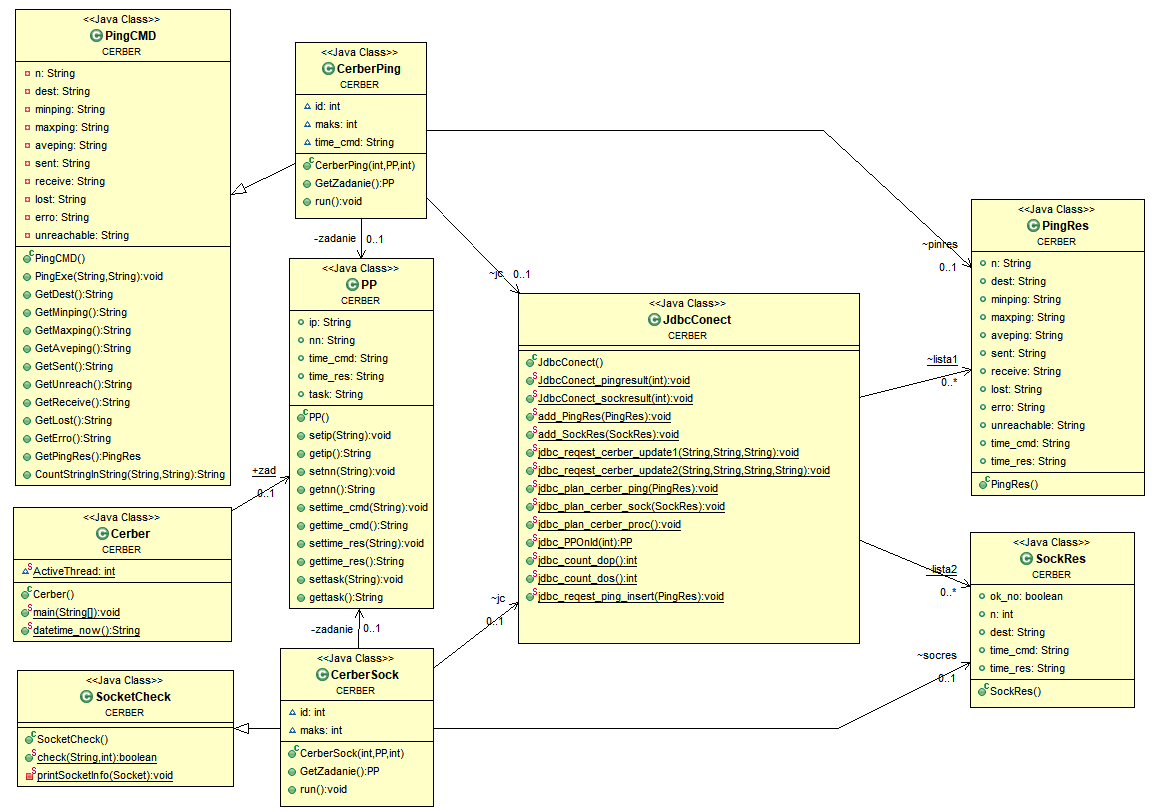
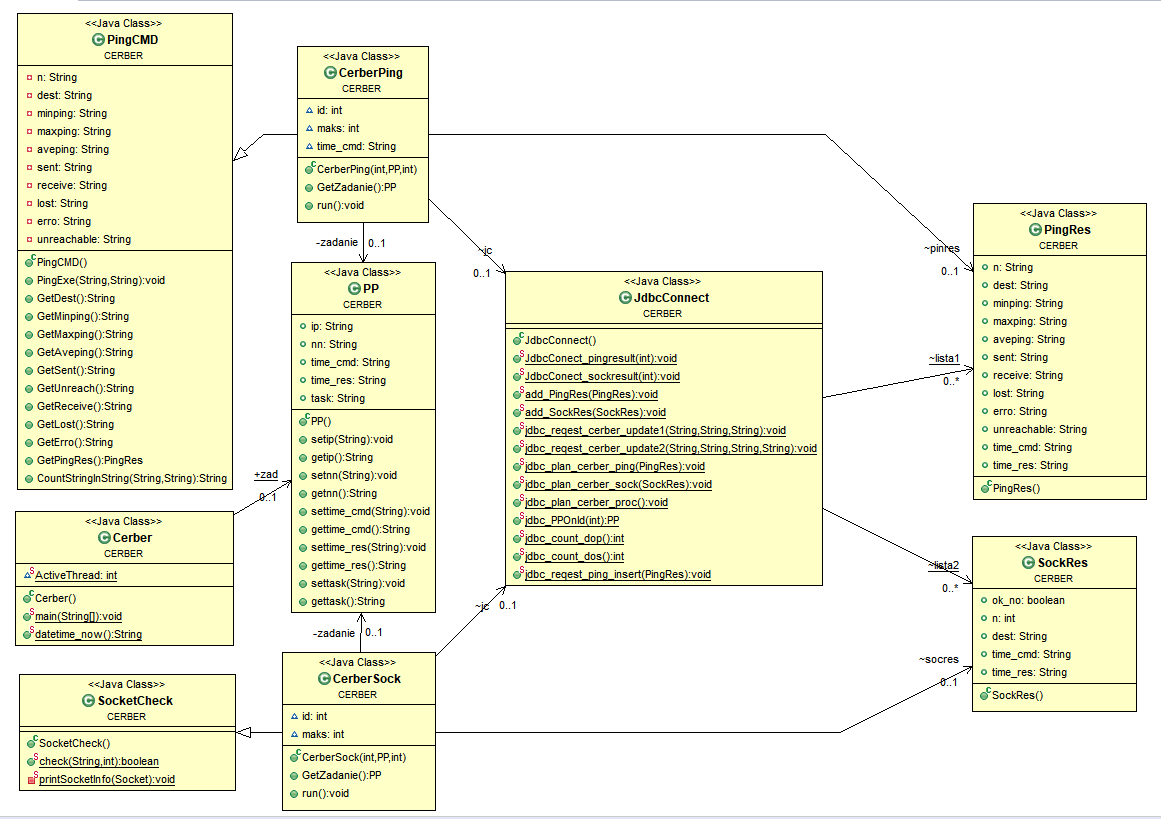
Dodano diagram klas wersja 2

diff --git a/src/CERBER/Cerber.java b/src/CERBER/Cerber.java
@@ -10,10 +10,10 @@ public class Cerber  {
     
     public static void main(String[] args) {
   
-         JdbcConect.jdbc_plan_cerber_proc();    
+         JdbcConnect.jdbc_plan_cerber_proc();    
          
-        int maksp=JdbcConect.jdbc_count_dop(); //ile jest do zrobienia wszystkich z pingiem
-        int makss=JdbcConect.jdbc_count_dos(); //ile jest do zrobienia wszystkich z socketem
+        int maksp=JdbcConnect.jdbc_count_dop(); //ile jest do zrobienia wszystkich z pingiem
+        int makss=JdbcConnect.jdbc_count_dos(); //ile jest do zrobienia wszystkich z socketem
         int maks=makss+maksp;
         
         System.out.println("Dozwolona ilosc pingow "+maksp);
@@ -28,7 +28,7 @@ public class Cerber  {
 
         for(int i=0; i<=maks; i++) 
          {
-            zad=JdbcConect.jdbc_PPOnId(i+1);
+            zad=JdbcConnect.jdbc_PPOnId(i+1);
             zad.time_res =datetime_now() ;
         	if (zad.ip!="") 
         	{

diff --git a/src/CERBER/CerberSock.java b/src/CERBER/CerberSock.java
@@ -5,7 +5,7 @@ public class CerberSock extends SocketCheck  implements Runnable{
 	int id;
 	int maks;
 	SockRes socres=new SockRes();
-	JdbcConect jc;
+	JdbcConnect jc;
 	
     public CerberSock(int id,PP zz,int maks) 
     {
@@ -23,7 +23,7 @@ public void run()
 	socres.ok_no= SocketCheck.check(zadanie.ip,Integer.parseInt(zadanie.nn));
 	socres.time_cmd=zadanie.time_cmd;
 	socres.time_res=zadanie.time_res;
-	JdbcConect.jdbc_reqest_cerber_update2(zadanie.getip(),zadanie.gettime_cmd(),zadanie.gettime_res(),"s");
+	JdbcConnect.jdbc_reqest_cerber_update2(zadanie.getip(),zadanie.gettime_cmd(),zadanie.gettime_res(),"s");
 	jc.add_SockRes(socres);
 	jc.JdbcConect_sockresult(maks);;
 }	

diff --git a/src/CERBER/JdbcConnect.java b/src/CERBER/JdbcConnect.java
@@ -10,7 +10,7 @@ import java.util.ArrayList;
 import java.util.Calendar;
 import java.util.List;
 
-public class JdbcConect {
+public class JdbcConnect {
 	static List<PingRes> lista1 = new ArrayList<PingRes>(); //lista pusta
 	static List<SockRes> lista2 = new ArrayList<SockRes>(); //lista pusta
 

diff --git a/src/CERBER/CerberPing.java b/src/CERBER/CerberPing.java
@@ -5,7 +5,7 @@ public class CerberPing extends PingCMD  implements Runnable{
 	int id;
 	int maks;
 	PingRes pinres;
-	JdbcConect jc;
+	JdbcConnect jc;
 	String time_cmd;
 	
     public CerberPing(int id,PP zz,int maks) 
